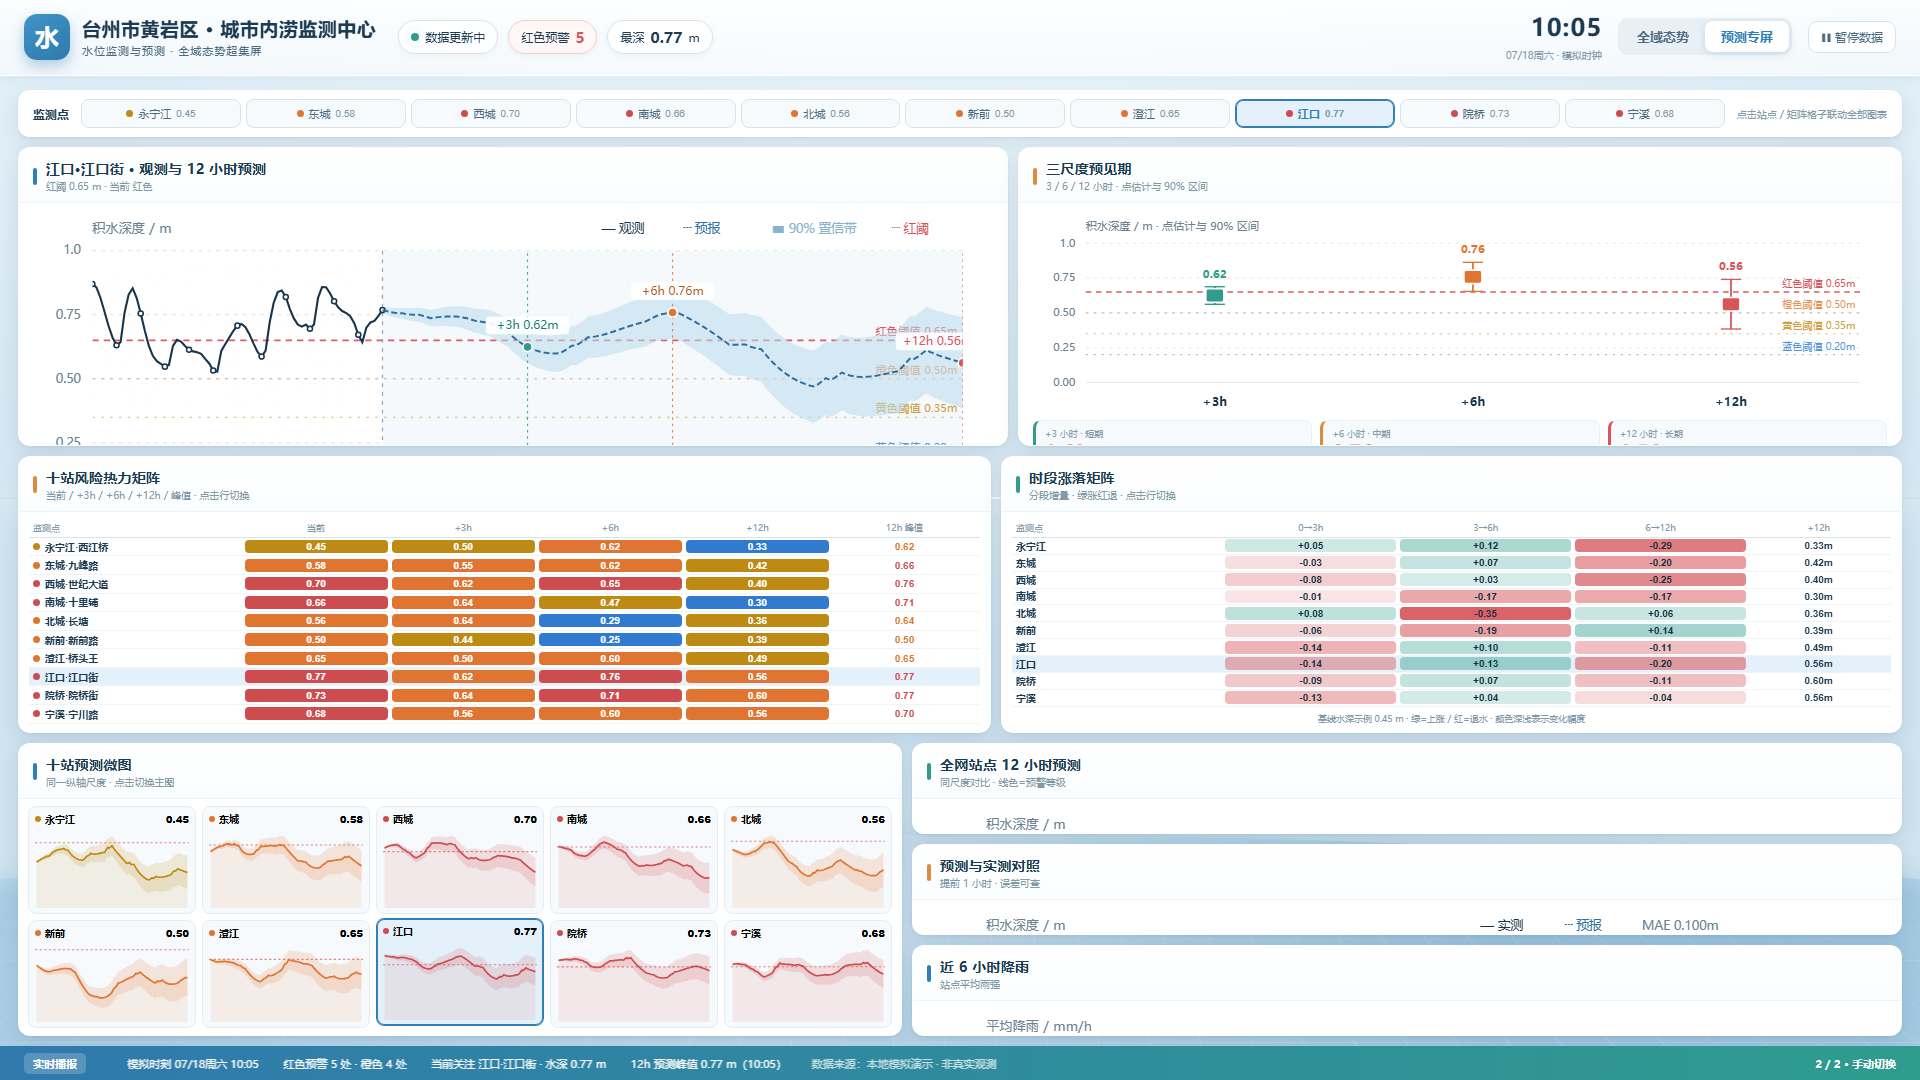
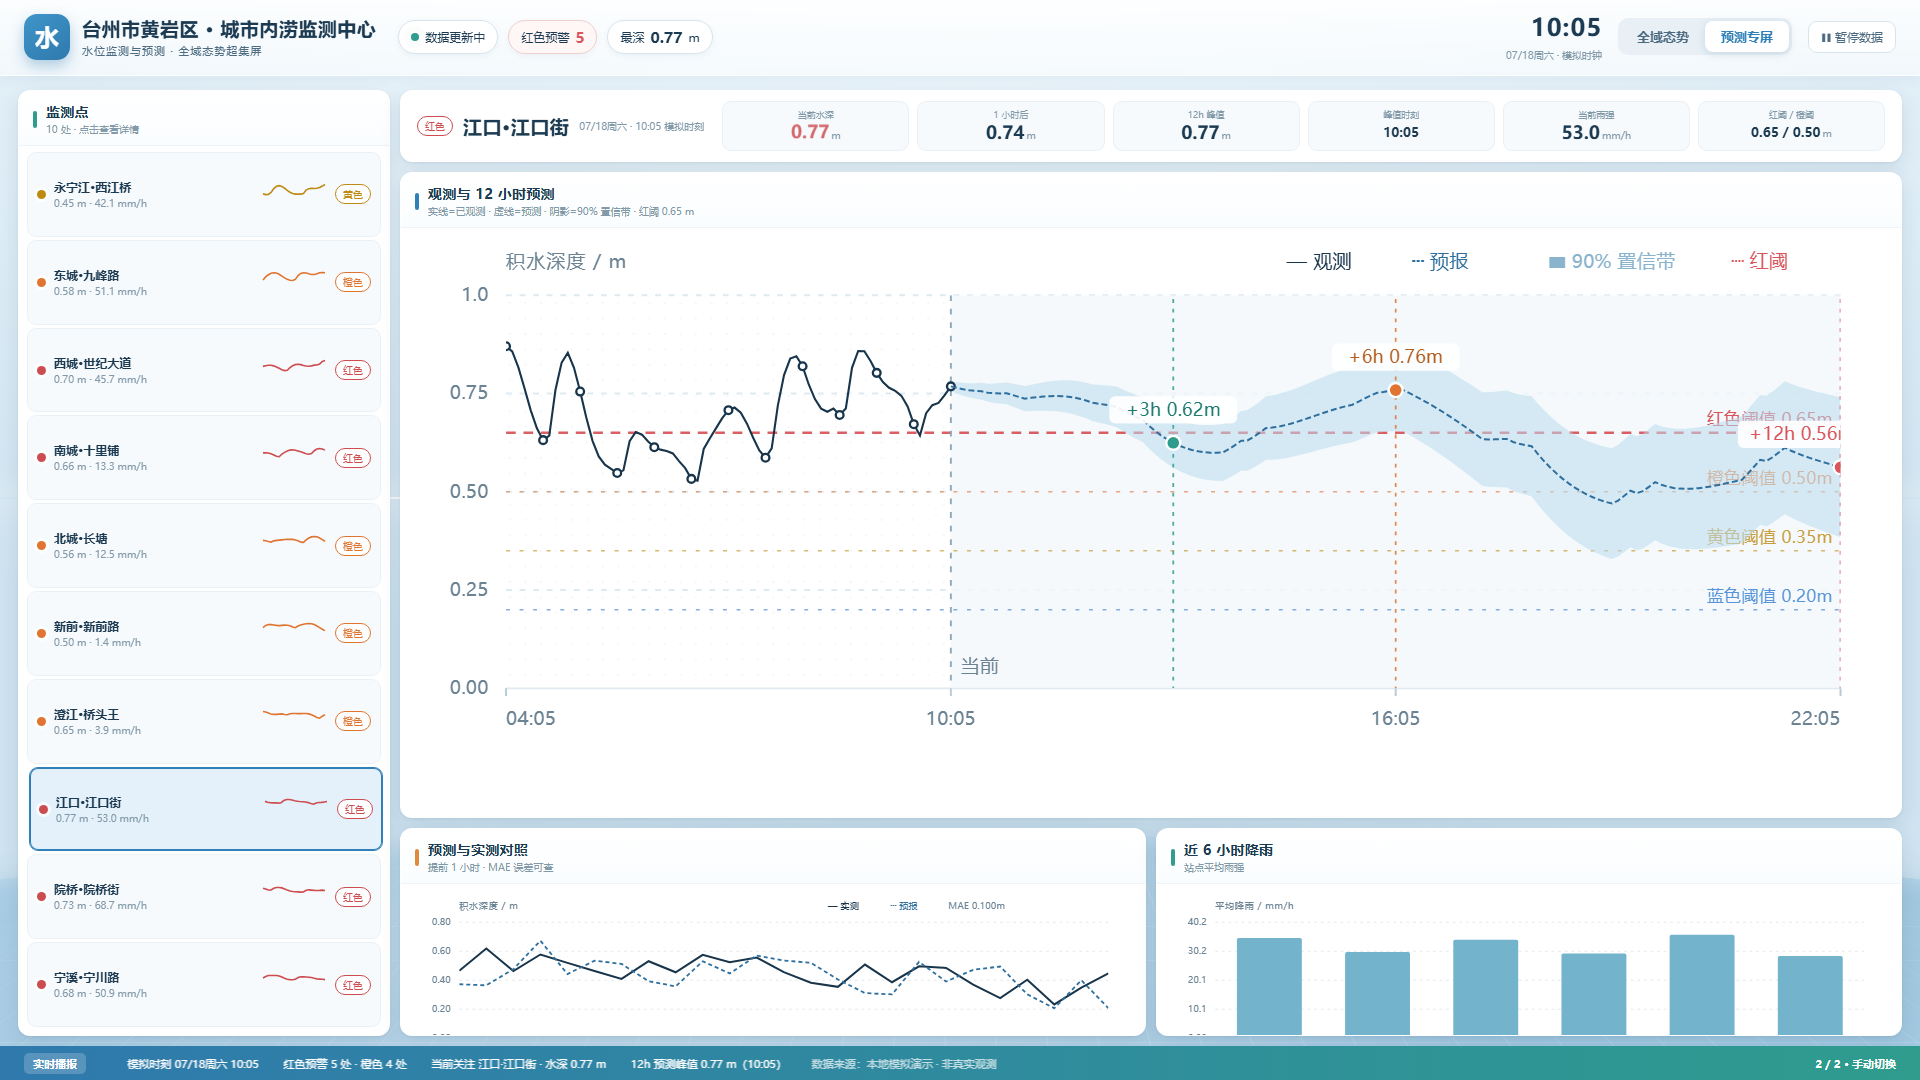
两页大屏 v3：预测页改 master-detail 两栏，去掉矩阵与三尺度堆积

diff --git a/waterlog-display/src/styles.css b/waterlog-display/src/styles.css
@@ -306,75 +306,49 @@ body { overflow: hidden; background: #dcebf4; }
 .link-marks span { display: block; font-size: 9px; color: var(--ink-soft); }
 .link-foot { margin: 7px 0 0; font-size: 10px; color: var(--muted); text-align: center; }
 
-/* ---------- 预测专屏（科研绘图 × 交互矩阵） ---------- */
-.prediction-page { display: flex; flex-direction: column; gap: 10px; }
-.station-strip { flex: 0 0 auto; display: flex; align-items: center; gap: 12px; background: #fff; border-radius: 11px; padding: 8px 14px; box-shadow: var(--shadow); border: 1px solid #fff; }
-.strip-label { font-size: 12px; font-weight: 700; color: var(--ink); white-space: nowrap; }
-.strip-items { display: flex; gap: 5px; flex: 1; overflow: hidden; }
-.strip-items button {
-  flex: 1; min-width: 0; display: flex; align-items: center; gap: 5px; justify-content: center;
-  border: 1px solid var(--line); background: var(--paper); border-radius: 8px;
-  padding: 6px 4px; font-size: 11px; color: var(--ink-soft); cursor: pointer; transition: all .2s;
+/* ---------- 预测专屏（左站点列表 + 右单站详情，master-detail） ---------- */
+.prediction-page { display: grid; grid-template-columns: 372px 1fr; gap: 10px; height: 100%; min-height: 0; }
+
+/* 左栏：监测点列表 */
+.pred-left { min-height: 0; min-width: 0; display: flex; }
+.pred-list-panel { flex: 1; min-height: 0; animation-delay: .02s; }
+.pred-list-panel .panel-body { padding: 6px 8px 8px; overflow-y: auto; }
+.pred-station-list { list-style: none; margin: 0; padding: 0; display: flex; flex-direction: column; gap: 3px; height: 100%; }
+.pred-station-list li {
+  flex: 1 1 0; min-height: 0; display: flex; align-items: center; gap: 8px;
+  border: 1px solid #eaf1f6; border-radius: 9px; background: var(--paper);
+  padding: 4px 9px; cursor: pointer; outline: none;
+  transition: background .18s, border-color .18s, transform .18s;
 }
-.strip-items button i { width: 7px; height: 7px; border-radius: 50%; flex: 0 0 7px; }
-.strip-items button small { color: var(--muted); font-size: 10px; }
-.strip-items button:hover { border-color: #9dc6e0; background: #f5fafd; }
-.strip-items button.active { background: var(--blue-soft); border-color: var(--blue); color: var(--blue); font-weight: 700; box-shadow: inset 0 0 0 1px var(--blue); }
-.strip-hint { font-size: 10px; color: var(--muted); white-space: nowrap; }
-.pred-top { flex: 1.08 1 0; min-height: 0; display: grid; grid-template-columns: 1.12fr 1fr; gap: 10px; }
-.pred-main { animation-delay: .05s; }
+.pred-station-list li:hover { background: #f2f8fc; border-color: #b9d8ec; transform: translateX(2px); }
+.pred-station-list li.active { background: var(--blue-soft); border-color: var(--blue); box-shadow: inset 0 0 0 1px var(--blue); }
+.pred-station-list .dot { width: 9px; height: 9px; border-radius: 50%; flex: 0 0 9px; box-shadow: 0 0 0 3px rgba(255,255,255,.7); }
+.ps-main { flex: 1; min-width: 0; display: flex; flex-direction: column; }
+.ps-main b { font-size: 12px; color: var(--ink); white-space: nowrap; overflow: hidden; text-overflow: ellipsis; }
+.ps-main small { font-size: 10px; color: var(--muted); font-variant-numeric: tabular-nums; margin-top: 1px; }
+.ps-spark { width: 66px; height: 26px; flex: 0 0 66px; }
+
+/* 右栏：单站详情 */
+.pred-right { min-height: 0; min-width: 0; display: flex; flex-direction: column; gap: 10px; }
+.pred-detail-head {
+  flex: 0 0 auto; display: flex; align-items: center; gap: 18px;
+  background: #fff; border-radius: var(--radius); padding: 10px 16px;
+  box-shadow: var(--shadow); border: 1px solid #fff;
+  animation: rise .6s .04s cubic-bezier(.2,.7,.2,1) both;
+}
+.pd-title { display: flex; align-items: center; gap: 10px; min-width: 268px; }
+.pd-title h2 { margin: 0; font-size: 19px; letter-spacing: .5px; }
+.pd-title > span { font-size: 10px; color: var(--muted); white-space: nowrap; }
+.pd-metrics { flex: 1; display: grid; grid-template-columns: repeat(6, 1fr); gap: 8px; }
+.pd-metrics > div { background: var(--paper); border: 1px solid #eaf1f6; border-radius: 9px; padding: 6px 8px; text-align: center; }
+.pd-metrics small { display: block; font-size: 9px; color: var(--muted); }
+.pd-metrics b { font-size: 18px; font-variant-numeric: tabular-nums; }
+.pd-metrics em { font-style: normal; font-size: 10px; color: var(--muted); margin-left: 2px; }
+.pd-metrics b.pd-time { font-size: 13px; }
+.pred-detail-main { flex: 1 1 0; min-height: 0; animation-delay: .08s; }
 .trend-big { flex: 1; min-height: 0; }
-.pred-horizon { display: flex; flex-direction: column; }
-.interval-chart { flex: 1; min-height: 0; }
-.horizon-row { flex: 0 0 auto; display: grid; grid-template-columns: repeat(3, 1fr); gap: 8px; margin-top: 4px; }
-.horizon-card { background: var(--paper); border: 1px solid #eaf1f6; border-left-width: 3px; border-radius: 8px; padding: 6px 9px; }
-.horizon-card.h3 { border-left-color: var(--teal); }
-.horizon-card.h6 { border-left-color: var(--orange); }
-.horizon-card.h12 { border-left-color: var(--red); }
-.horizon-card small { display: block; font-size: 9px; color: var(--muted); }
-.horizon-card b { font-size: 19px; font-variant-numeric: tabular-nums; }
-.horizon-card em { font-style: normal; font-size: 10px; color: var(--muted); margin-left: 2px; }
-.horizon-card > span { font-size: 9px; color: var(--muted); display: block; margin-top: 2px; }
-.horizon-band { height: 5px; background: #eaf0f4; border-radius: 3px; margin-top: 4px; position: relative; overflow: hidden; }
-.horizon-band i { position: absolute; top: 0; bottom: 0; background: rgba(47,128,184,.45); border-radius: 3px; transition: all .7s ease; }
-.pred-mid { flex: 1 1 0; min-height: 0; display: grid; grid-template-columns: 1.08fr 1fr; gap: 10px; }
-.pred-heat .panel-body, .pred-matrix .panel-body { padding: 7px 10px 8px; overflow: auto; }
-.risk-heat, .horizon-matrix { display: flex; flex-direction: column; font-size: 10px; min-width: 0; height: 100%; }
-.risk-heat-head, .risk-heat-row, .hm-head, .hm-row { display: grid; gap: 4px; align-items: center; }
-.risk-heat-head, .hm-head { grid-template-columns: 1.45fr repeat(5, 1fr); color: var(--muted); font-size: 9px; padding: 2px 4px 4px; border-bottom: 1px solid var(--line); text-align: center; }
-.risk-heat-head span:first-child, .hm-head span:first-child { text-align: left; }
-.risk-heat-row, .hm-row {
-  flex: 1 1 0; min-height: 0;
-  width: 100%; border: 0; border-bottom: 1px solid #f0f4f7; background: transparent;
-  grid-template-columns: 1.45fr repeat(5, 1fr); padding: 1px 4px; cursor: pointer;
-  font-size: 10px; color: var(--ink); text-align: center; transition: background .15s;
-}
-.risk-heat-row:hover, .hm-row:hover { background: #f4f9fc; }
-.risk-heat-row.active, .hm-row.active { background: var(--blue-soft); }
-.rh-name, .hm-name { display: flex; align-items: center; gap: 5px; text-align: left; white-space: nowrap; overflow: hidden; font-weight: 600; }
-.rh-name i { width: 7px; height: 7px; border-radius: 50%; flex: 0 0 7px; }
-.rh-cell, .hm-cell { border-radius: 4px; padding: 1px 0; font-variant-numeric: tabular-nums; font-weight: 600; }
-.rh-peak { font-weight: 700; font-variant-numeric: tabular-nums; }
-.hm-head, .hm-row { grid-template-columns: 1.2fr repeat(3, 1fr) 0.8fr; }
-.hm-cell { color: #16303f; }
-.hm-end { font-weight: 700; font-variant-numeric: tabular-nums; color: var(--ink); }
-.hm-foot { font-size: 9px; color: var(--muted); margin-top: 5px; text-align: center; }
-.pred-bottom { flex: 1.06 1 0; min-height: 0; display: grid; grid-template-columns: 1fr 1.12fr; gap: 10px; }
-.pred-minis .panel-body { padding: 7px 9px; }
-.mini-grid { display: grid; grid-template-columns: repeat(5, 1fr); grid-template-rows: repeat(2, 1fr); gap: 6px; height: 100%; }
-.mini-card {
-  border: 1px solid #e3edf3; border-radius: 8px; background: var(--paper); padding: 5px 6px;
-  cursor: pointer; text-align: left; min-width: 0; display: flex; flex-direction: column;
-  transition: transform .18s, box-shadow .18s, border-color .18s;
-}
-.mini-card:hover { transform: translateY(-2px); box-shadow: 0 6px 14px rgba(31,74,105,.14); }
-.mini-card.active { border-color: var(--blue); background: var(--blue-soft); box-shadow: inset 0 0 0 1px var(--blue); }
-.mini-head { display: flex; align-items: center; gap: 4px; font-size: 10px; font-weight: 600; white-space: nowrap; }
-.mini-head i { width: 6px; height: 6px; border-radius: 50%; flex: 0 0 6px; }
-.mini-head b { margin-left: auto; font-size: 10px; font-variant-numeric: tabular-nums; }
-.mini-chart { flex: 1; min-height: 0; margin-top: 3px; }
-.pred-side { display: grid; grid-template-rows: repeat(3, 1fr); gap: 10px; min-height: 0; }
-.pred-side .panel { animation-delay: .1s; }
+.pred-detail-sub { flex: 0 0 208px; display: grid; grid-template-columns: 1fr 1fr; gap: 10px; min-height: 0; }
+.pred-detail-sub .panel { animation-delay: .12s; }
 .chart-box { flex: 1; min-height: 0; }
 
 /* ---------- 页脚 ---------- */

diff --git a/waterlog-display/src/App.tsx b/waterlog-display/src/App.tsx
@@ -4,10 +4,7 @@ import { createDemoSnapshot } from './data'
 import type { Snapshot, Station, Level } from './types'
 import { LEVEL_COLORS, LEVEL_NAMES } from './types'
 import { StationMap } from './StationMap'
-import {
-  TrendChart, FleetChart, RainChart, AccuracyChart, Sparkline,
-  HorizonIntervalChart, RiskHeatmap, HorizonMatrix, SiteMiniChart,
-} from './Charts'
+import { TrendChart, RainChart, AccuracyChart, Sparkline } from './Charts'
 import { pageFromSearch } from './presentation'
 import { LEVELS, dayText, timeText, levelOf, horizon, peak, statusCounts, fmtDepth, fmtRain } from './view'
 
@@ -212,79 +209,54 @@ function OverviewPage({ snap, selected, onSelect, showDetail, setShowDetail }: {
   </div>
 }
 
-function HorizonCard({ station, hours, label }: { station: Station; hours: number; label: string }) {
-  const h = horizon(station, hours)
-  const lv = h ? levelOf(h.depth, station.thresholds) : 'none'
-  return <div className={`horizon-card h${hours}`}>
-    <small>{label}</small>
-    <b style={{ color: LEVEL_COLORS[lv] }}>{h ? fmtDepth(h.depth) : '—'}<em>m</em></b>
-    <div className="horizon-band"><i style={{ left: `${Math.max(0, Math.min(100, (h ? h.lower : 0) / 1.2 * 100))}%`, width: `${h ? (h.upper - h.lower) / 1.2 * 100 : 0}%` }} /></div>
-    <span>置信 {h ? `${fmtDepth(h.lower)}~${fmtDepth(h.upper)}` : '—'}</span>
-  </div>
+function PredStationList({ stations, selectedId, onSelect }: { stations: Station[]; selectedId: string; onSelect: (id: string) => void }) {
+  return <Panel title="监测点" subtitle={`${stations.length} 处 · 点击查看详情`} accent="teal" className="pred-list-panel">
+    <ul className="pred-station-list">
+      {stations.map(s => {
+        const lv = levelOf(s.actual, s.thresholds)
+        return <li key={s.id} className={s.id === selectedId ? 'active' : ''} onClick={() => onSelect(s.id)} tabIndex={0} onKeyDown={e => e.key === 'Enter' && onSelect(s.id)}>
+          <i className="dot" style={{ background: LEVEL_COLORS[lv] }} />
+          <div className="ps-main"><b>{s.name}</b><small>{fmtDepth(s.actual)} m · {fmtRain(s.rain)} mm/h</small></div>
+          <div className="ps-spark"><Sparkline values={s.history.slice(-24).map(p => p.depth)} color={LEVEL_COLORS[lv]} /></div>
+          <LevelChip level={lv} />
+        </li>
+      })}
+    </ul>
+  </Panel>
 }
 
 function PredictionPage({ snap, selected, onSelect }: { snap: Snapshot; selected: Station; onSelect: (id: string) => void }) {
   const lv = levelOf(selected.actual, selected.thresholds)
+  const p = peak(selected)
+  const h1 = horizon(selected, 1)
   return <div className="page prediction-page">
-    <div className="station-strip">
-      <span className="strip-label">监测点</span>
-      <div className="strip-items">
-        {snap.stations.map(s => {
-          const sl = levelOf(s.actual, s.thresholds)
-          return <button key={s.id} className={s.id === selected.id ? 'active' : ''} onClick={() => onSelect(s.id)}>
-            <i style={{ background: LEVEL_COLORS[sl] }} />{s.name.replace(/·.*/, '')}<small>{fmtDepth(s.actual)}</small>
-          </button>
-        })}
+    <aside className="pred-left">
+      <PredStationList stations={snap.stations} selectedId={selected.id} onSelect={onSelect} />
+    </aside>
+    <main className="pred-right">
+      <div className="pred-detail-head">
+        <div className="pd-title"><LevelChip level={lv} /><h2>{selected.name}</h2><span>{dayText(snap.now)} · {timeText(snap.now)} 模拟时刻</span></div>
+        <div className="pd-metrics">
+          <div><small>当前水深</small><b style={{ color: LEVEL_COLORS[lv] }}><Flash token={selected.actual.toFixed(2)}>{fmtDepth(selected.actual)}</Flash></b><em>m</em></div>
+          <div><small>1 小时后</small><b>{h1 ? fmtDepth(h1.depth) : '—'}</b><em>m</em></div>
+          <div><small>12h 峰值</small><b>{fmtDepth(p.depth)}</b><em>m</em></div>
+          <div><small>峰值时刻</small><b className="pd-time">{timeText(p.at)}</b></div>
+          <div><small>当前雨强</small><b>{fmtRain(selected.rain)}</b><em>mm/h</em></div>
+          <div><small>红阈 / 橙阈</small><b className="pd-time">{selected.thresholds.red.toFixed(2)} / {selected.thresholds.orange.toFixed(2)}</b><em>m</em></div>
+        </div>
       </div>
-      <span className="strip-hint">点击站点 / 矩阵格子联动全部图表</span>
-    </div>
-
-    <div className="pred-top">
-      <Panel title={`${selected.name} · 观测与 12 小时预测`} subtitle={`红阈 ${selected.thresholds.red.toFixed(2)} m · 当前 ${LEVEL_NAMES[lv]}`} accent="blue" className="pred-main">
+      <Panel title="观测与 12 小时预测" subtitle={`实线=已观测 · 虚线=预测 · 阴影=90% 置信带 · 红阈 ${selected.thresholds.red.toFixed(2)} m`} accent="blue" className="pred-detail-main">
         <div className="trend-big"><TrendChart station={selected} now={snap.now} /></div>
       </Panel>
-      <Panel title="三尺度预见期" subtitle="3 / 6 / 12 小时 · 点估计与 90% 区间" accent="orange" className="pred-horizon">
-        <div className="interval-chart"><HorizonIntervalChart station={selected} /></div>
-        <div className="horizon-row">
-          <HorizonCard station={selected} hours={3} label="+3 小时 · 短期" />
-          <HorizonCard station={selected} hours={6} label="+6 小时 · 中期" />
-          <HorizonCard station={selected} hours={12} label="+12 小时 · 长期" />
-        </div>
-      </Panel>
-    </div>
-
-    <div className="pred-mid">
-      <Panel title="十站风险热力矩阵" subtitle="当前 / +3h / +6h / +12h / 峰值 · 点击行切换" accent="orange" className="pred-heat">
-        <RiskHeatmap stations={snap.stations} selectedId={selected.id} onSelect={onSelect} />
-      </Panel>
-      <Panel title="时段涨落矩阵" subtitle="分段增量 · 绿涨红退 · 点击行切换" accent="teal" className="pred-matrix">
-        <HorizonMatrix stations={snap.stations} selectedId={selected.id} onSelect={onSelect} />
-      </Panel>
-    </div>
-
-    <div className="pred-bottom">
-      <Panel title="十站预测微图" subtitle="同一纵轴尺度 · 点击切换主图" accent="blue" className="pred-minis">
-        <div className="mini-grid">
-          {snap.stations.map(s => (
-            <button key={s.id} className={`mini-card${s.id === selected.id ? ' active' : ''}`} onClick={() => onSelect(s.id)}>
-              <div className="mini-head"><i style={{ background: LEVEL_COLORS[levelOf(s.actual, s.thresholds)] }} />{s.name.replace(/·.*/, '')}<b>{fmtDepth(s.actual)}</b></div>
-              <div className="mini-chart"><SiteMiniChart station={s} /></div>
-            </button>
-          ))}
-        </div>
-      </Panel>
-      <div className="pred-side">
-        <Panel title="全网站点 12 小时预测" subtitle="同尺度对比 · 线色=预警等级" accent="teal" className="pred-fleet">
-          <div className="chart-box"><FleetChart stations={snap.stations} now={snap.now} /></div>
-        </Panel>
-        <Panel title="预测与实测对照" subtitle="提前 1 小时 · 误差可查" accent="orange" className="pred-acc">
+      <div className="pred-detail-sub">
+        <Panel title="预测与实测对照" subtitle="提前 1 小时 · MAE 误差可查" accent="orange">
           <div className="chart-box"><AccuracyChart points={snap.evaluation} /></div>
         </Panel>
-        <Panel title="近 6 小时降雨" subtitle="站点平均雨强" accent="blue" className="pred-rain">
+        <Panel title="近 6 小时降雨" subtitle="站点平均雨强" accent="teal">
           <div className="chart-box"><RainChart stations={snap.stations} now={snap.now} /></div>
         </Panel>
       </div>
-    </div>
+    </main>
   </div>
 }
 

diff --git a/waterlog-display/README.md b/waterlog-display/README.md
@@ -23,7 +23,7 @@ npm run test:ui    # Playwright 实测两页元素、手动换页、点击联动
 | 页面 | 路由 | 布局 |
 | --- | --- | --- |
 | 全域态势 | `?page=1` | 中间真实黄岩区地图（圆点可点）；左：预警日历 / 运行概况 / 10 站点列表；右：预警列表 / 未来峰值排行 / 联动站点速览 |
-| 预测专屏 | `?page=2` | 站点切换条；上：单站观测 + 12h 主图 + 3/6/12h 区间图与三尺度卡片；中：十站风险热力矩阵 + 时段涨落矩阵；下：十站预测微图 + 全站预测 / 预测-实测对照 / 近 6h 降雨 |
+| 预测专屏 | `?page=2` | 左：10 个监测点列表（水深/雨强/微趋势/等级）；右：选中站点的详情头（当前水深/1h/12h 峰值/峰值时刻/雨强/阈值）+ 12h 观测与预测主图 + 预测-实测对照 / 近 6h 降雨两图 |
 
 - **无自动轮播**：只通过顶栏「全域态势 / 预测专屏」Tab 手动换页（不设 `interval`、无轮播进度条）。
 - 「暂停数据 / 继续数据」按钮只冻结/恢复模拟数据时钟，不影响页面切换。
@@ -32,7 +32,7 @@ npm run test:ui    # Playwright 实测两页元素、手动换页、点击联动
 ## 交互（所有部件协同更新）
 
 - **全域态势页**：地图圆点、站点列表、预警列表、排行条、联动速览卡——任一处点击都会更新同一个 `selectedId`，地图高亮、站点详情浮层、速览卡的 3/6/12h 数值与页脚播报同步跟随；详情浮层可关闭。
-- **预测专屏页**：站点切换条、风险热力矩阵的行、时段涨落矩阵的行、十站预测微图——任一处点击都切换主预测图、区间图、三尺度卡片与三张辅助图，实现「以内容为中心的点击联动」，不依赖纯数据表格。
+- **预测专屏页**：左侧 10 站点列表为唯一导航——点击任一站，右侧详情头、12h 观测与预测主图、预测-实测对照、降雨图全部切换到该站，实现「以站点为中心的点击联动」；采用 master-detail 两栏，非堆积视觉，不依赖纯数据表格。
 
 ## 数据模拟（`src/data.ts`）
 
@@ -51,7 +51,7 @@ src/
   styles.css       浅色天气预报风、倾斜地球背景、科研绘图与交互反馈动效
   data.ts          确定性模拟数据（含测试）
   view.ts          等级/时间/格式工具
-  Charts.tsx       SVG 图表：趋势/区间/风险热力/涨落矩阵/微图/全站/雨量/误差
+  Charts.tsx       SVG 图表：趋势/雨量/误差/站点微趋势（科研绘图风：网格/置信带/阈值线/散点）
   StationMap.tsx   Leaflet 真实底图 + 可点圆点
   geo.ts           高德 GCJ02 瓦片坐标转换
   presentation.ts  页面路由参数解析
